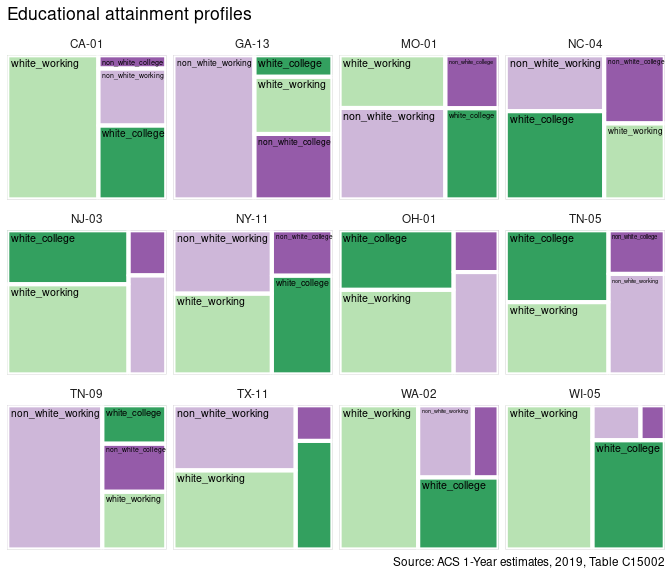
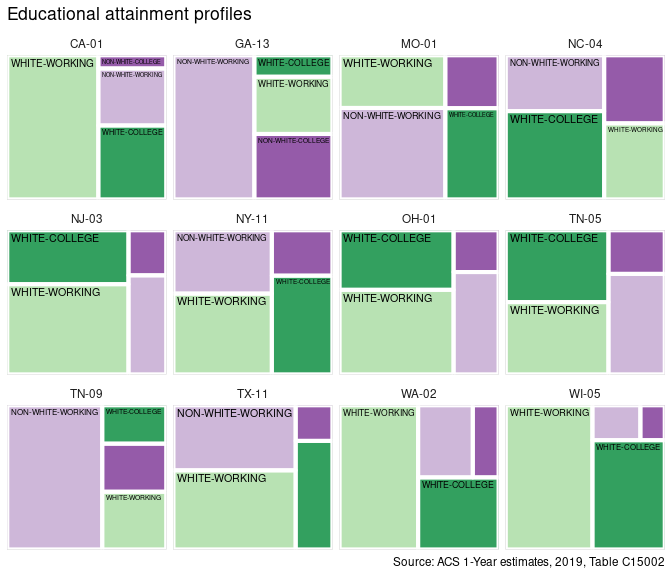
re

diff --git a/all-the-newness.md b/all-the-newness.md
@@ -186,21 +186,19 @@ last_dem %>%
   ungroup() %>%
   arrange(party_win, desc(n)) %>%
   filter(party_win == 'democrat') %>% 
+  ggplot(aes(x = reorder(label,n), 
+             y = n, 
+             fill = label, 
+             label = n)) + 
   
-      ggplot(aes(x = reorder(label,n), 
-               y = n, 
-               fill = label, 
-               label = n)) + 
-  
-    geom_col(width=.65, color = 'lightgray') +  
-    geom_text(size = 3, nudge_y = .5) +
-    coord_flip()+
-    #labs(title = "Roll call results for legislation referencing HEALTH CARE") +
-    theme_minimal()+
-    ggthemes::scale_fill_economist()+
-    xlab('') + ylab('') +
-    theme(legend.position = "none")+
-    facet_wrap(~party_win, ncol = 2) 
+  geom_col(width=.65, color = 'lightgray') +  
+  geom_text(size = 3, nudge_y = .5) +
+  coord_flip()+
+  #labs(title = "Last Democrats") +
+  theme_minimal()+
+  ggthemes::scale_fill_economist()+
+  xlab('') + ylab('') +
+  theme(legend.position = "none")
 ```
 
 ![](all-the-newness_files/figure-markdown_github/unnamed-chunk-8-1.png)
@@ -253,11 +251,12 @@ Rvoteview: House composition
 *Obviously do this the once* –
 
 ``` r
-vvo <- Rvoteview::download_metadata(type = 'members', chamber = 'house') %>%
+vvo <- Rvoteview::download_metadata(type = 'members', 
+                                    chamber = 'house') %>%
   filter(congress > 66 & chamber != 'President')
 ```
 
-    ## [1] "/tmp/RtmpnEDAtz/Hall_members.csv"
+    ## [1] "/tmp/RtmpJjfkjs/Hall_members.csv"
 
 ``` r
 house <- vvo %>%
@@ -420,32 +419,32 @@ quicknews::qnews_search_contexts(qorp = qorp,
 </thead>
 <tbody>
 <tr class="odd">
-<td style="text-align: left;">text19974</td>
-<td style="text-align: left;">… 1792 ] By the Bank Act of 1791 , the <code>federal government</code> paid $ 2 million , from funds previously borrowed at …</td>
+<td style="text-align: left;">text10463</td>
+<td style="text-align: left;">… appears altogether impracticable , in the present state of the <code>Federal Government</code> , to make the Interest or honor of the Union …</td>
 </tr>
 <tr class="even">
-<td style="text-align: left;">text1268</td>
-<td style="text-align: left;">… as well as upon the successful Operations of Your new <code>Federal Government</code> , and your Appointment to the very distinguished Post You …</td>
+<td style="text-align: left;">text9681</td>
+<td style="text-align: left;">… the War of Independence were to be assumed by the <code>federal government</code> under terms of a plan established by " An Act …</td>
 </tr>
 <tr class="odd">
-<td style="text-align: left;">text423</td>
-<td style="text-align: left;">… the persons holding such office to an opposition of the <code>Federal Government</code> is it not placing a very dangerous weapon in the …</td>
+<td style="text-align: left;">text19333</td>
+<td style="text-align: left;">… a masterly Stroke of Policy , and will establishe The <code>Federal Government</code> in the Hearts of the People . The Resources of …</td>
 </tr>
 <tr class="even">
-<td style="text-align: left;">text20224</td>
-<td style="text-align: left;">… when paying heavy taxes , before the institution of the <code>federal government</code> , at the amount of the taxes themselves . Their …</td>
+<td style="text-align: left;">text9511</td>
+<td style="text-align: left;">… western Settlements . That these considerations ought to make the <code>Federal Government</code> take ( he thinks ) the most decisive steps as …</td>
 </tr>
 <tr class="odd">
-<td style="text-align: left;">text10400</td>
-<td style="text-align: left;">… prays to be continued in the same Office under the <code>Federal Government</code> , Or be appointed one of the land or Tide …</td>
+<td style="text-align: left;">text19690</td>
+<td style="text-align: left;">… Checks devised in Democracies marking self-distrust , " and " <code>Federal Governments</code> " ) were never printed in the National Gazette , …</td>
 </tr>
 <tr class="even">
-<td style="text-align: left;">text1208</td>
-<td style="text-align: left;">… preserved in places most remote from the seat of the <code>Federal government</code> , as well as at the centre . And the …</td>
+<td style="text-align: left;">text1378</td>
+<td style="text-align: left;">… would keep a Day of Thanksgiving on hearing that the <code>Federal Government</code> was dissolved , and some of the principle officers carred …</td>
 </tr>
 <tr class="odd">
-<td style="text-align: left;">text4480</td>
-<td style="text-align: left;">… of Kean’s decision to remain in the service of the <code>Federal Government</code> in spite of his appointment as cashier of the Bank …</td>
+<td style="text-align: left;">text6804</td>
+<td style="text-align: left;">… designs of its enemies , and to rally round the <code>Federal government</code> as a Standard where our most precious interests are well …</td>
 </tr>
 </tbody>
 </table>
@@ -503,20 +502,19 @@ splits <- uspols::uspols_wiki_pres %>%
 splits %>%
   group_by(year) %>%
   summarize(per_split = round(mean(split)*100, 1)) %>%
+  ggplot(aes(x = year, 
+             y = per_split, 
+             label = per_split)) + 
   
-        ggplot(aes(x = year, 
-               y = per_split, 
-               label = per_split)) + 
-  
-    geom_col(width = 2.75, fill = 'steelblue',  color = 'lightgray') +  
-    geom_text(size = 3, nudge_y = 1) +
-    labs(title = "Senator-President Splits") +
-    theme_minimal()+
-    ggthemes::scale_fill_stata() +
-    scale_x_continuous(breaks=seq(1976,2016,4)) +
+  geom_col(width = 2.75, 
+           fill = 'steelblue',  
+           color = 'lightgray') +  
+  geom_text(size = 3, nudge_y = 1) +
+  labs(title = "Senator-President Splits") +
+  theme_minimal()+
   ylab('') + xlab('') +
-    theme(legend.position = "none",
-          axis.text.x = element_text(angle = 45, hjust = 1))
+  theme(legend.position = "none",
+        axis.text.x = element_text(angle = 45, hjust = 1))
 ```
 
 ![](all-the-newness_files/figure-markdown_github/unnamed-chunk-18-1.png)
@@ -562,7 +560,8 @@ Age – briefly –
 ``` r
 house %>%
   mutate(age = year - born) %>%
-  filter (party_code %in% c('100', '200'), year > 1995) %>% ## 100 == democrat --
+  filter (party_code %in% c('100', '200'), year > 1995) %>% 
+  ## 100 == democrat --
   ggplot(aes(age, 
              fill = party_code)) +
 
@@ -623,12 +622,6 @@ gen <-  tidycensus::get_acs(geography = 'congressional district',
   left_join(states, by = c('state_code')) %>%
   select(state_abbrev, district_code, variable, estimate, moe)
 ```
-
-    ## Getting data from the 2019 1-year ACS
-
-    ## The one-year ACS provides data for geographies with populations of 65,000 and greater.
-
-    ## Using the ACS Data Profile
 
 ``` r
 base_viz <- gen %>% 
@@ -708,12 +701,9 @@ white_ed <- tidycensus::get_acs(geography = 'congressional district',
   mutate(state_code = substr(GEOID, 1, 2),
          district_code = substr(GEOID, 3, 4))  %>%
   left_join(states, by = c('state_code')) %>%
-  select(GEOID, state_code, state_abbrev, district_code, group, per, estimate)
+  select(GEOID, state_code, state_abbrev, 
+         district_code, group, per, estimate)
 ```
-
-    ## Getting data from the 2019 1-year ACS
-
-    ## The one-year ACS provides data for geographies with populations of 65,000 and greater.
 
 ``` r
 uscds <- tigris::congressional_districts(cb = TRUE) %>%
@@ -755,27 +745,24 @@ samp_n <- sample(unique(white_ed $GEOID), 12)
 
 white_ed %>%
   filter(GEOID %in% samp_n) %>%
-    ggplot(aes(area = per,
-               fill = group,
-               label = group,
-               subgroup = group))+
-      treemapify::geom_treemap(alpha=.8)+
-      treemapify::geom_treemap_subgroup_border(color = 'white') +
-
-      treemapify::geom_treemap_text(colour = "black", 
-                        place = "topleft", 
-                        reflow = T,
-                        size = 8)+
-      #ggthemes::scale_fill_economist()+ 
-      #scale_fill_brewer(palette = 'Paired') +
-  #scale_fill_distiller(palette = "BrBG", direction = 1) +
+  ggplot(aes(area = per,
+             fill = group,
+             label = gsub('_', '-', toupper(group)),
+             subgroup = group))+
+  treemapify::geom_treemap(alpha=.8)+
+  treemapify::geom_treemap_subgroup_border(color = 'white') +
+  treemapify::geom_treemap_text(colour = "black", 
+                                place = "topleft", 
+                                reflow = T,
+                                size = 8) +
   
-  scale_fill_manual(values = c('#7b3294', '#c2a5cf', '#008837', '#a6dba0'))+
+  scale_fill_manual(values = c('#7b3294', '#c2a5cf', 
+                               '#008837', '#a6dba0'))+
   theme_minimal() +
-      facet_wrap(~paste0(state_abbrev, '-', district_code)) +
-      theme(legend.position = "none") + 
-      labs(title = "Educational attainment profiles",
-           caption = 'Source: ACS 1-Year estimates, 2019, Table C15002')
+  facet_wrap(~paste0(state_abbrev, '-', district_code)) +
+  theme(legend.position = "none") + 
+  labs(title = "Educational attainment profiles",
+       caption = 'Source: ACS 1-Year estimates, 2019, Table C15002')
 ```
 
 ![](all-the-newness_files/figure-markdown_github/unnamed-chunk-30-1.png)
